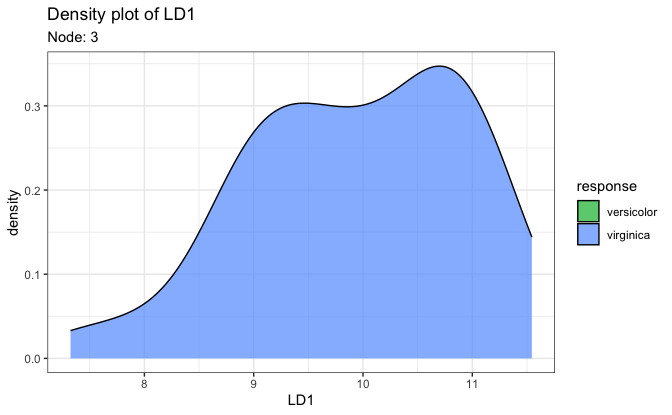
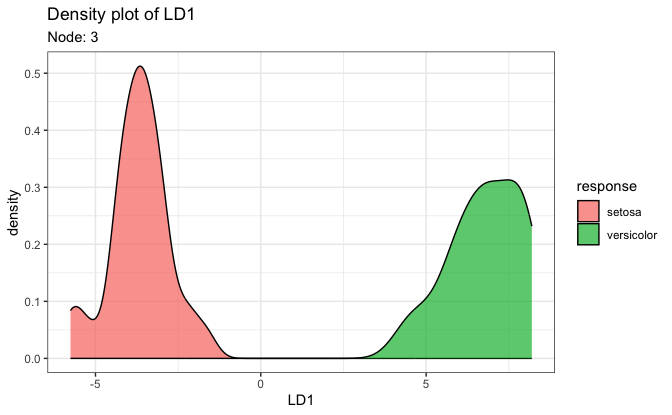
Finish direct stopping rule

diff --git a/README.md b/README.md
@@ -47,7 +47,7 @@ To build an LDATree:
 
 ``` r
 library(LDATree)
-
+set.seed(456)
 fit <- Treee(Species~., data = iris)
 ```
 
@@ -72,9 +72,6 @@ plot(fit, data = iris, node = 1)
 
 # 2. Density plot on the first LD score
 plot(fit, data = iris, node = 3)
-#> Warning: Groups with fewer than two data points have been dropped.
-#> Warning in max(ids, na.rm = TRUE): no non-missing arguments to max; returning
-#> -Inf
 ```
 
 <img src="man/figures/README-plot2-2.png" width="80%" style="display: block; margin: auto;" />
@@ -99,13 +96,13 @@ head(predictions)
 # A more informative prediction
 predictions <- predict(fit, iris, type = "all")
 head(predictions)
-#>   response node setosa versicolor virginica
-#> 1   setosa   13      0          0         0
-#> 2   setosa   13      0          0         0
-#> 3   setosa   13      0          0         0
-#> 4   setosa   13      0          0         0
-#> 5   setosa   13      0          0         0
-#> 6   setosa   13      0          0         0
+#>   response node setosa   versicolor virginica
+#> 1   setosa    3      1 9.281826e-27         0
+#> 2   setosa    3      1 3.107853e-22         0
+#> 3   setosa    3      1 1.049363e-24         0
+#> 4   setosa    3      1 9.134151e-22         0
+#> 5   setosa    3      1 1.672418e-27         0
+#> 6   setosa    3      1 1.808762e-24         0
 ```
 
 ## Getting help
